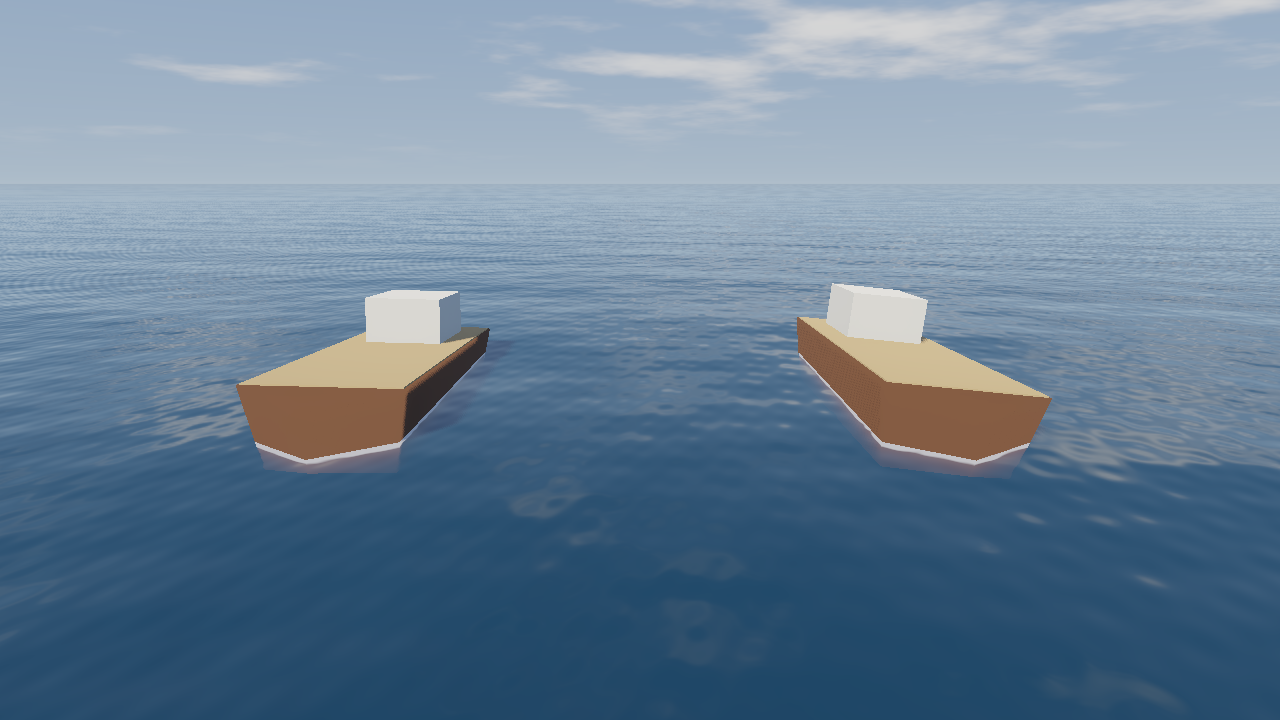
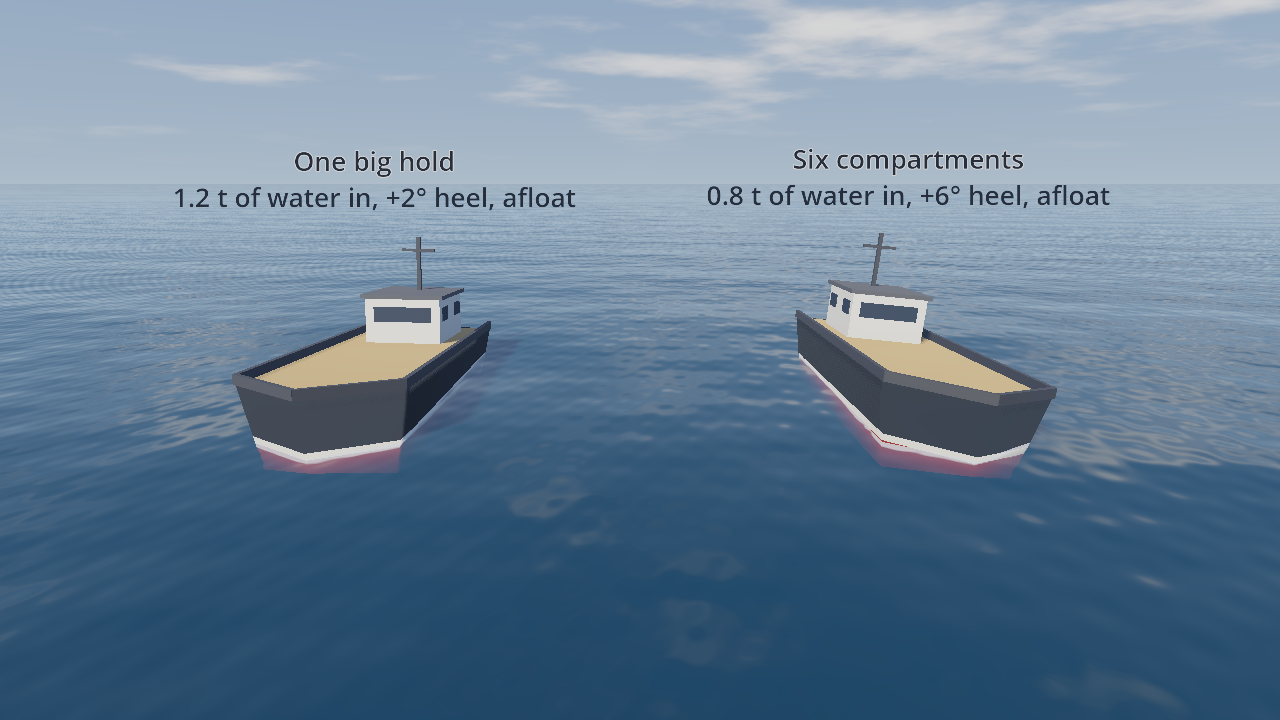
Bounded Buoyancy 2.6.1: the demo scenes tidied and smartened
Every demo scene run from a fresh install of the 2.6.0 store zip and
looked at, at 1, 6 and 15 s. No errors anywhere; these tidied: the
settled float's label, both boats in view at the start, the sky
scene's keys and labels, wind-scene bodies kept in view, the flooding
ships' names shown over the sea, key hints readable over the sea, the
submarine's portholes, and a stray space in the battle read-out.

Smartened (meshes only; the shapes that float are unchanged): the
flooding ships painted as ships, with a shaped deck, a rail and a
wheelhouse; the dinghy's hull, deck and sail; the motorboat's deck,
console and seat. New flooding and boats animations and flooding
store picture.

Checked on Godot 4.4.1 and 4.7.2: a fresh install opens cleanly, all
16 scenes run without an error, and the test suite passes (284 checks,
native and GDScript).

Claude-Session: https://claude.ai/code/session_019W35X8dKjseAyLNhWiT3xk

diff --git a/CHANGELOG.md b/CHANGELOG.md
@@ -1,5 +1,21 @@
 # Changelog
 
+## 2.6.1
+
+Demo scenes only: every scene was run from a fresh install of 2.6.0 and looked at, and these tidied. Checked on Godot 4.4.1 and on 4.7.2: the test suite passes (native and GDScript) and every demo scene runs without an error.
+
+- Light float: the Bounded Buoyancy ball, once still, said "still bobbing ±0.0 mm"; it now says "settled".
+- Boats: the camera starts with both boats in view (C still changes it); before, the sailing dinghy began at the edge of the picture and sailed out of it.
+- Sky: the key hints are at the foot, as in the other scenes (the balloons rose through them at the top), and the hot-air balloon's read-out no longer runs into its name.
+- Wind: a body carried back upwind comes back into the middle of the lake, not beside the camera, where a balloon filled the side of the picture; the balloons start further in.
+- Ship flooding: the names over the two ships were hidden by the sea; they show.
+- The key hints have a pale edge, so they read over the sea as well as the sky.
+- Pirate battle: a stray space before a comma in the read-out.
+- Submarine: its portholes are small, nearly flush and set higher on the hull; large, bright and at the waterline, they looked like a row of little bombs.
+- Boats: the motorboat has a pale deck, a helm console and a seat, so from behind it reads as a boat and not an orange shape; the dinghy has a blue hull, a white deck and a proper sail (along the mast and boom, narrowing to its head) in place of a grey slab; with both boats in view the camera keeps low and close enough that they read as boats.
+- Ship flooding: the two ships are painted as ships (dark topsides, a white band at the waterline, red below), with a deck cut to their shape, a rail, and a wheelhouse with windows and a short mast; their names are over them from the first frame.
+- The README's flooding animation, the guide's boats animation and the flooding store picture are new.
+
 ## 2.6.0
 
 - The README and the plugin's description open with the one-node version (add the node, set a density, done) and answer the question of why a plain upward force is not enough, before the list of what else it can do.

diff --git a/docs/GUIDE.md b/docs/GUIDE.md
@@ -82,7 +82,7 @@ Add **BoundedBuoyancyFoil** nodes under a body for its keel, centreboard, rudder
 
 Like the buoyancy, their forces are bounded: each step a foil's force is worked out with the flow at the end of the step, against the inertia the body has at the foil, so it can stop the flow across the foil but never throw the body back the other way. A 10 m² foil on a 1 kg body moving across it at 10 m/s, which a plain force would fling back at thousands of metres a second in one step, just stops. A propeller brings a boat up to its speed and no further.
 
-![A dinghy beating into the wind and tacking; the sail lines up with the wind, then fills on the other side](docs/boats.gif)
+![The motorboat driven round while the dinghy beats into the wind and tacks; its sail lines up with the wind, then fills on the other side](docs/boats.gif)
 
 | Foil setting | Meaning | Default |
 | --- | --- | --- |
